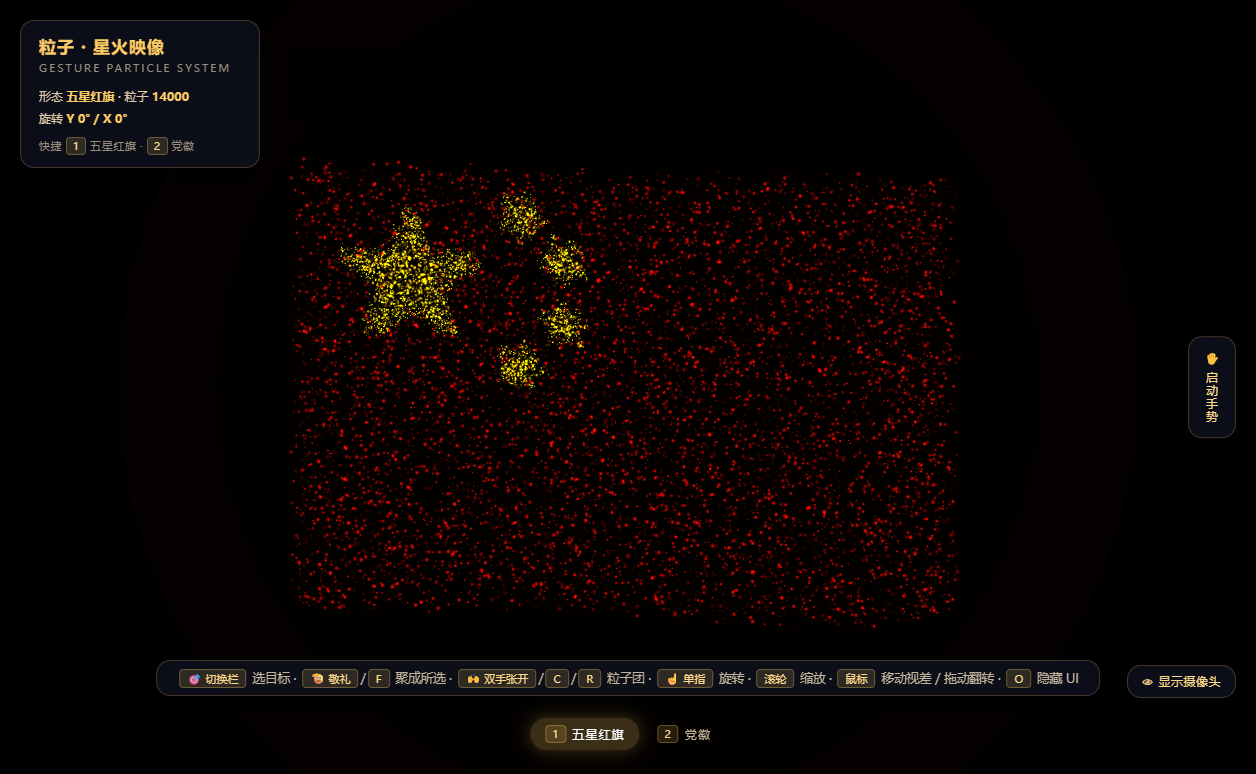
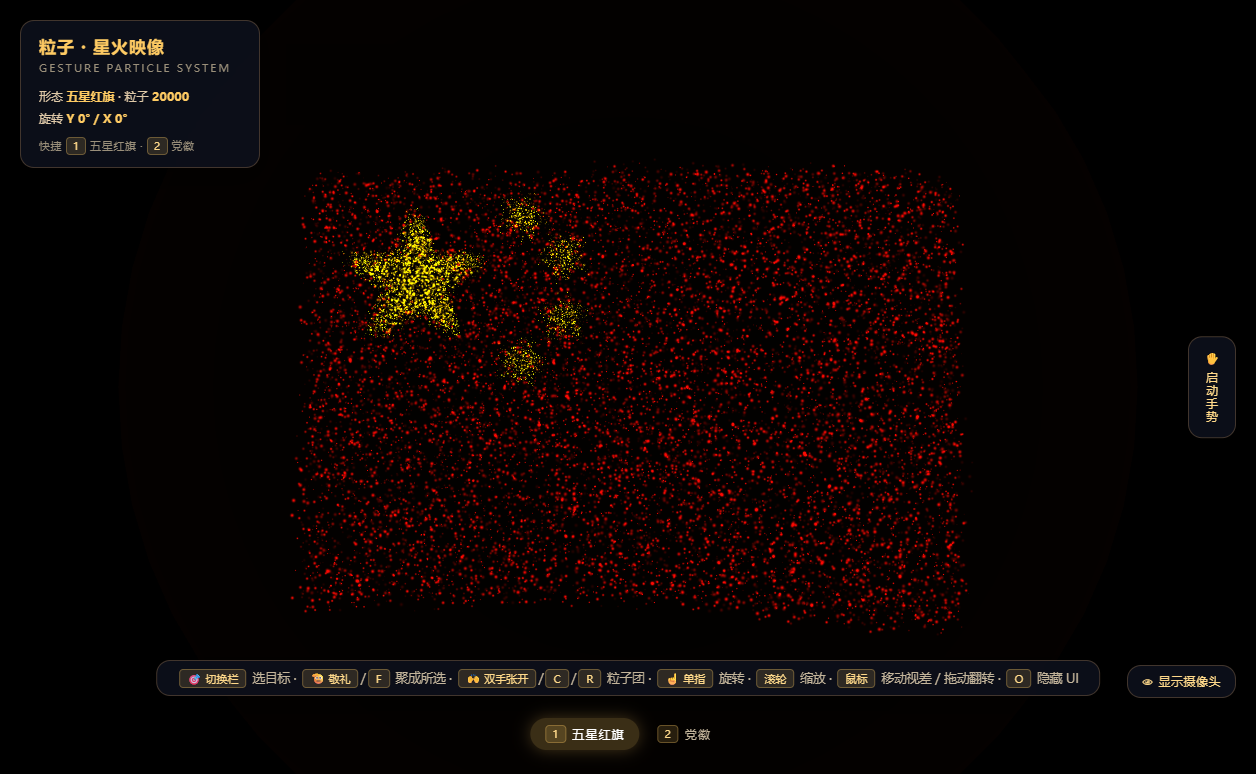
Add files via upload

Changed region(s): [[0.2174, 0.2171, 0.7763, 0.8062]]

diff --git a/particles.html b/particles.html
@@ -137,8 +137,8 @@
    快捷键：1/2 切换项目（不论当前形态，一律回到对应粒子团） F=聚成所选 C/R=粒子团
    ═══════════════════════════════════════════════════════════════ */
 
-const PARTICLE_COUNT = 14000;
-const STAR_COUNT = 4200;          // 前 4200 个粒子用于构成五星（含轮廓描边）
+const PARTICLE_COUNT = 20000;
+const STAR_COUNT = 6400;          // 前 6400 个粒子用于构成五星（含轮廓描边与星尖）
 const PALETTE = {
   flag:   ['#de2910', '#ffde00'],   // 标准国旗红 / 五星黄
   rose:   ['#ff4d6d', '#ffd6e0'],
@@ -304,15 +304,24 @@ function sampleStarEdge(star, out) {
   const t = Math.random();
   const nx = -(b[1] - a[1]) / (lens[ei] || 1);
   const ny = (b[0] - a[0]) / (lens[ei] || 1);
-  const j = (Math.random() - 0.5) * 0.36;
+  const j = (Math.random() - 0.5) * 0.1;    // 极细抖动 → 边缘更锐利
   out[0] = a[0] + (b[0] - a[0]) * t + nx * j;
   out[1] = a[1] + (b[1] - a[1]) * t + ny * j;
 }
 
-// 大星与小星的粒子配额：大幅提高，描边占 62% 让轮廓清晰
+/** 星尖：直接落在 10 个顶点附近（极细抖动）→ 五个角更锐利 */
+function sampleStarTip(star, out) {
+  const poly = star.poly;
+  const v = poly[(Math.random() * poly.length) | 0];
+  out[0] = v[0] + (Math.random() - 0.5) * 0.1;
+  out[1] = v[1] + (Math.random() - 0.5) * 0.1;
+}
+
+// 大星与小星的粒子配额：描边占 62% 让轮廓清晰，其中前 8% 落在星尖
 const EDGE_RATIO = 0.62;
-const BIG_N = 2600;
-const SMALL_N = [400, 400, 400, 400];   // 2600+1600 = 4200 = STAR_COUNT
+const TIP_RATIO = 0.08;
+const BIG_N = 4000;
+const SMALL_N = [600, 600, 600, 600];   // 4000+2400 = 6400 = STAR_COUNT
 
 /** 粒子索引 → 所属星（仅前 STAR_COUNT 个） */
 function starOfIndex(i) {
@@ -330,10 +339,11 @@ function makeFlag(i, out) {
     const st = starOfIndex(i);
     // 描边粒子在前（每颗星的前 EDGE_RATIO 部分），内部填充在后
     const withinStar = i < BIG_N ? i : i - BIG_N;
-    const segLen = i < BIG_N ? BIG_N : SMALL_N[Math.min(3, Math.floor((i - BIG_N) / 400))];
+    const segLen = i < BIG_N ? BIG_N : SMALL_N[Math.min(3, Math.floor((i - BIG_N) / SMALL_N[0]))];
     const local = withinStar - Math.floor(withinStar / segLen) * segLen;
-    if (local < segLen * EDGE_RATIO) sampleStarEdge(st, out);
-    else sampleStar(st, out);
+    if (local < segLen * TIP_RATIO) sampleStarTip(st, out);        // 星尖
+    else if (local < segLen * EDGE_RATIO) sampleStarEdge(st, out); // 描边
+    else sampleStar(st, out);                                      // 内部填充
     out[2] = (Math.random() - 0.5) * 3.4;      // 星的厚度 → 立体
   } else {
     sampleField(out);
@@ -444,9 +454,10 @@ function recolor() {
       c = i < STAR_COUNT ? colorB.clone() : colorA.clone();
       // 描边粒子提亮，让轮廓更醒目；填充与旗面保持轻微明暗颗粒感
       const withinStar = i < BIG_N ? i : i - BIG_N;
-      const segLen = i < BIG_N ? BIG_N : SMALL_N[Math.min(3, Math.floor((i - BIG_N) / 400))];
+      const segLen = i < BIG_N ? BIG_N : SMALL_N[Math.min(3, Math.floor((i - BIG_N) / SMALL_N[0]))];
       const local = withinStar - Math.floor(withinStar / segLen) * segLen;
-      if (i < STAR_COUNT && local < segLen * EDGE_RATIO) c.multiplyScalar(1.25 + Math.random() * 0.25);
+      if (i < STAR_COUNT && local < segLen * TIP_RATIO) c.multiplyScalar(1.45 + Math.random() * 0.2);
+      else if (i < STAR_COUNT && local < segLen * EDGE_RATIO) c.multiplyScalar(1.25 + Math.random() * 0.25);
       else c.multiplyScalar(0.86 + Math.random() * 0.28);
     } else if (currentShape === 'emblem') {
       // 党徽：专用金色，不与旗红混合（明暗颗粒感保留）
@@ -466,13 +477,17 @@ function recolor() {
 recolor();
 for (let i = 0; i < PARTICLE_COUNT; i++) {
   if (i < STAR_COUNT) {
-    // 描边粒子更小更集中 → 线条锐利；内部填充稍大 → 星体饱满
+    // 星尖更小更亮 → 角锐利；描边次之；内部填充稍大 → 星体饱满
+    const st = starOfIndex(i);
+    const starScale = 0.55 + 0.45 * Math.min(1, st.R / 6);   // 小星用更细的颗粒
     const withinStar = i < BIG_N ? i : i - BIG_N;
-    const segLen = i < BIG_N ? BIG_N : SMALL_N[Math.min(3, Math.floor((i - BIG_N) / 400))];
+    const segLen = i < BIG_N ? BIG_N : SMALL_N[Math.min(3, Math.floor((i - BIG_N) / SMALL_N[0]))];
     const local = withinStar - Math.floor(withinStar / segLen) * segLen;
-    sizes[i] = local < segLen * EDGE_RATIO ? 0.42 + Math.random() * 0.5 : 0.6 + Math.random() * 0.9;
+    if (local < segLen * TIP_RATIO) sizes[i] = (0.26 + Math.random() * 0.16) * starScale;
+    else if (local < segLen * EDGE_RATIO) sizes[i] = (0.34 + Math.random() * 0.36) * starScale;
+    else sizes[i] = (0.58 + Math.random() * 0.8) * starScale;
   } else {
-    sizes[i] = 0.55 + Math.random() * 1.35;   // 旗面
+    sizes[i] = 0.55 + Math.random() * 1.3;   // 旗面
   }
   seeds[i] = Math.random() * Math.PI * 2;
 }

diff --git a/README.md b/README.md
@@ -3,15 +3,14 @@
 用 Three.js 写的一片 20,000 粒子的实时星火：能聚成五星红旗或中国共产党党徽，
 可以用摄像头手势指挥，也能用快捷键和鼠标把玩。纯前端、零构建，单个 HTML 文件即可运行。
 
-国旗按国标 30×20 网格布点，6,400 个粒子构成五星，星尖单独提亮、描边收紧，
-在 1080p 投影下也能看清五角的锐利轮廓。
-![粒子・星火映像：14,000 粒子构成的五星红旗](./preview.png)
+![粒子・星火映像：20,000 粒子构成的五星红旗](./preview.png)
 
 *五星红旗形态（页面实拍）。*
 
 ## 这是什么
 
 一个「形态由粒子实时构成」的交互演示。20,000 个发光粒子在三维空间中漂浮，
+通过手势或键盘在三种形态之间平滑形变：
 
 - **粒子团** —— 默认散开态，也是唯一的非实体形态
 - **五星红旗** —— 按国标 30×20 网格布点
@@ -22,8 +21,8 @@
 
 ## 亮点
 
-20,000 粒子实时形变：粒子位置向目标形态阻尼吸附，切换过程是连续流动而非跳变；
-其中 6,400 个粒子用于构成五星，星尖单独提亮、描边收紧，保证星形轮廓在 1080p 下依然锐利。
+- **20,000 粒子实时形变**：粒子位置向目标形态阻尼吸附，切换过程是连续流动而非跳变；
+  其中 6,400 个粒子用于构成五星，描边粒子占比 62%，保证星形轮廓锐利。
 - **国旗按国标布点**：旗面 60×40（3:2），大星半径 3 格、四颗小星半径 1 格且各有一角
   正对大星圆心；小星内用拒绝采样填充，星与旗面互不重叠。
 - **党徽零外部资源**：120×120 的镰刀锤头轮廓以游程编码（RLE）内嵌，解码后做拒绝采样
